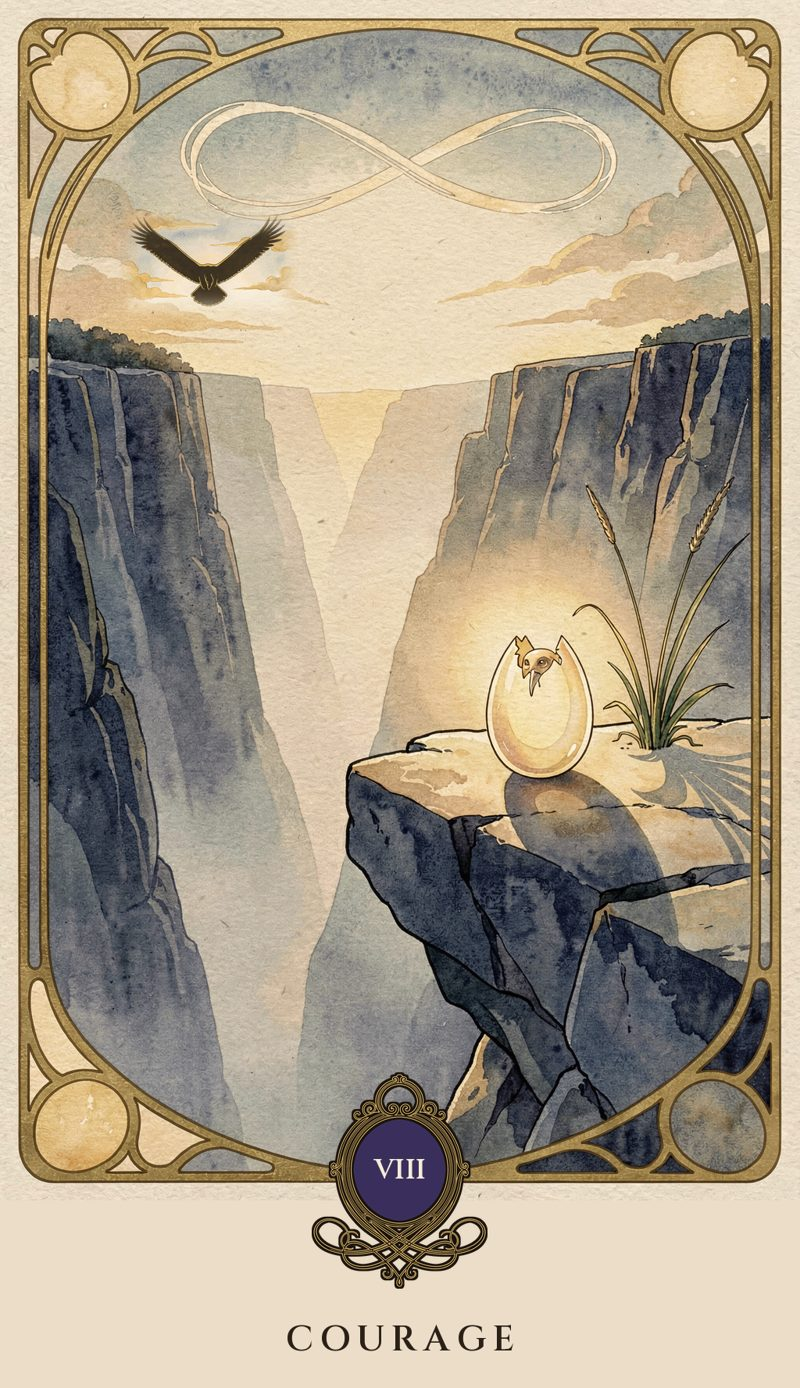
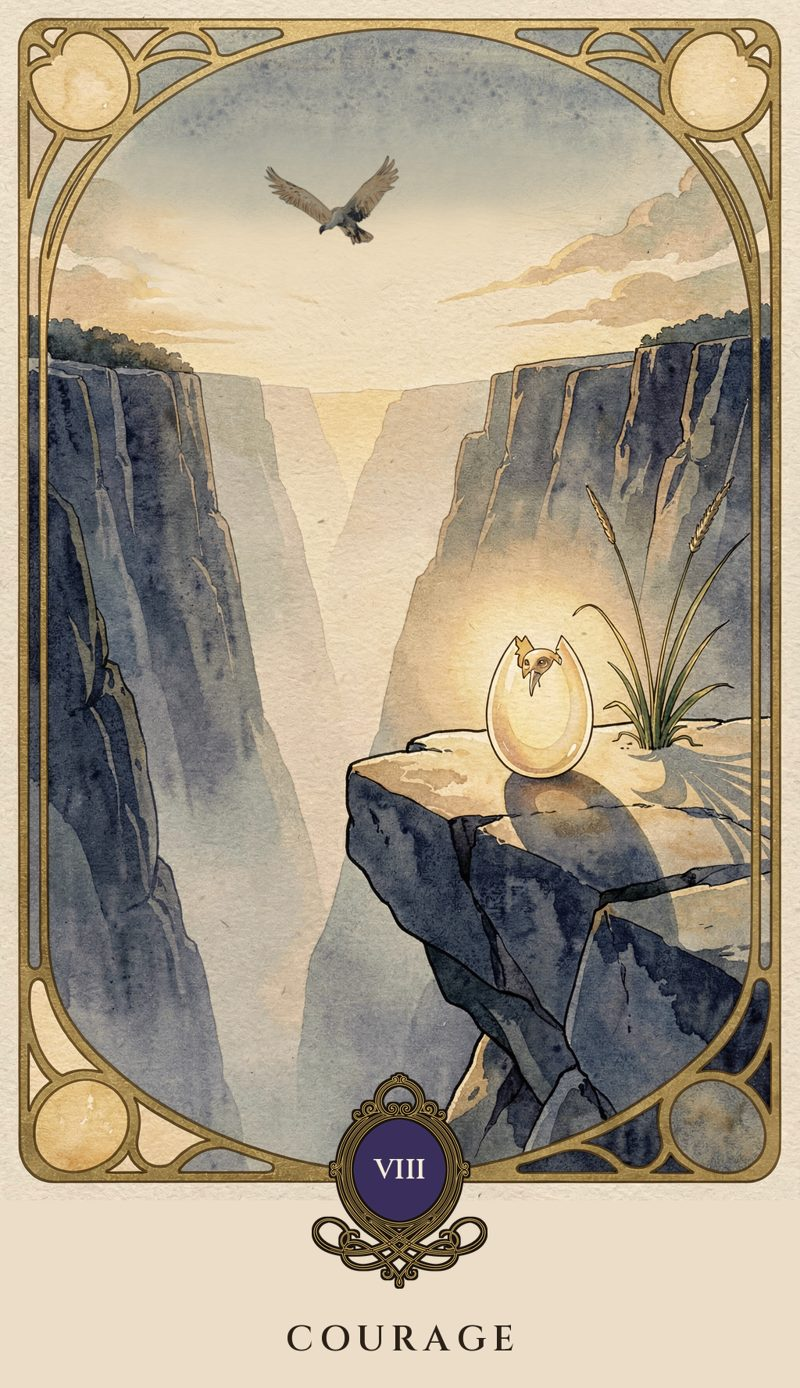
VIII · Courage : le ruban infini retiré et le vautour posé par Martin (master retouché à la main) + texte du chapitre 8 recollé
- master : cartes_validees/CARTE_major_08_Courage_validee.png (retouche manuelle de Martin
  sur le master validé : ruban effacé, vautour à la place du rapace ; tout le reste identique)
- texte public : les deux passages qui décrivaient le ruban sont remplacés ; l'oiseau reste
  à deux sens (l'avenir qui s'annonce ou la menace qui tourne)
- filet : « huit » retiré de SYMBOLES_REQUIS[8] (il venait du ruban)
- image de l'app : 800×1388 q82 depuis le cartouche clair + miniature régénérée

pytest : 764 passed, 11 skipped

Changed region(s): [[0.125, 0.062, 0.7812, 0.2478]]

diff --git a/tests/test_lectures.py b/tests/test_lectures.py
@@ -36,7 +36,7 @@ SYMBOLES_REQUIS = {
         "fruits"],
     7: ["avance", "flammes", "sphinx", "croissants", "étoil"],
     8: ["œuf", "falaises", "gouffre", "rocher", "coque", "bec", "herbe",
-        "oiseau", "huit", "brume"],
+        "oiseau", "brume"],
     9: ["nuit", "neige", "montagnes", "capuchon", "bâton", "lumière",
         "poitrine", "étoile à six branches", "ombre"],
     10: ["roue", "galaxies", "saisons", "hiver", "lune", "glaçons",
